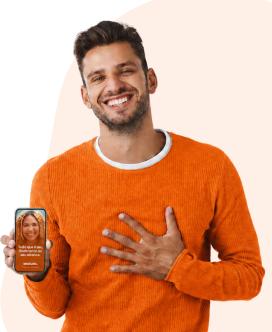
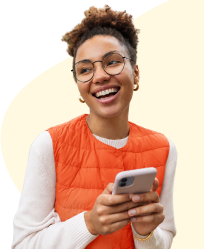
FGTS via Lótus+, ajuste no CLT e refinos de layout nas landings
FGTS: reativa o produto no dashboard, adiciona bloco de parceria com a
Lótus+ na landing e substitui o fluxo interno de contratação por
redirecionamento externo, com tela intermediária de transição (mesmo
padrão do redirecionamento de provedores do CLT) e botão de fallback
caso o link não abra automaticamente. Jornada interna do FGTS
preservada nas rotas, apenas não é mais o destino padrão da landing.

CLT: label de consentimento na revisão da proposta ajustada para texto
simples, sem link.

Landings de produto: CTA fixo no rodapé sem fundo sólido, para efeito
de flutuação.

diff --git a/projetos/taya-app/src/App.tsx b/projetos/taya-app/src/App.tsx
@@ -109,6 +109,7 @@ import SeguroVidaLandingPage from "@/pages/seguro-vida/SeguroVidaLandingPage";
 import FGTSLandingPage from "@/pages/fgts/LandingPage";
 import FGTSCopilotoPage from "@/pages/fgts/CopilotoPage";
 import FGTSLoadingPage from "@/pages/fgts/LoadingPage";
+import FGTSRedirecionandoPage from "@/pages/fgts/RedirecionandoPage";
 import FGTSSemSaldoPage from "@/pages/fgts/SemSaldoPage";
 import FGTSSimuladorPage from "@/pages/fgts/SimuladorPage";
 import FGTSRevisaoPage from "@/pages/fgts/RevisaoPage";
@@ -1722,7 +1723,9 @@ function AssistenciasPage() {
           <FaqAcordeon items={faqItems} />
         </div>
 
-        <FakeDoorCTA registrado={assistencias} onRegister={handleInteresse} label="Conhecer planos" />
+        <div className="sticky bottom-20 z-40 pb-3 md:bottom-0">
+          <FakeDoorCTA registrado={assistencias} onRegister={handleInteresse} label="Conhecer planos" />
+        </div>
       </div>
     </SubPageLayout>
   );
@@ -1824,7 +1827,9 @@ function EnergiaPage() {
           <FaqAcordeon items={faqItems} />
         </div>
 
-        <FakeDoorCTA registrado={energia} onRegister={handleInteresse} label="Simular economia" />
+        <div className="sticky bottom-20 z-40 pb-3 md:bottom-0">
+          <FakeDoorCTA registrado={energia} onRegister={handleInteresse} label="Simular economia" />
+        </div>
       </div>
     </SubPageLayout>
   );
@@ -3312,11 +3317,10 @@ function App() {
   const fgtsPath = "/fgts";
 
   // Título "Para você agora" só aparece quando pelo menos 1 dos cards abaixo está ativo
-  // FGTS OCULTO TEMPORARIAMENTE — produto em pausa. Remover o false && para reativar.
   const temCardParaVoceAgora =
     mostrarCltConsultaLiberada ||
-    (false && fgtsStatus === "autorizado") ||
-    (false && fgtsStatus === "contrato") ||
+    fgtsStatus === "autorizado" ||
+    fgtsStatus === "contrato" ||
     cpOfertaPronta ||
     cpVideoDisponivel ||
     cpStatus === "assinatura_pendente" ||
@@ -3414,9 +3418,8 @@ function App() {
                 )}
 
                 {/* DESIGN ONLY — card FGTS no "Para você agora" quando fgts=autorizado ou fgts=contrato
-                    TODO: controlar por estado real da API BMP
-                    FGTS OCULTO TEMPORARIAMENTE — produto em pausa. Remover o false && para reativar. */}
-                {false && fgtsStatus === "autorizado" && (
+                    TODO: controlar por estado real da API BMP */}
+                {fgtsStatus === "autorizado" && (
                   <button
                     type="button"
                     onClick={() => navigate("/fgts/simular")}
@@ -3437,8 +3440,7 @@ function App() {
                     </div>
                   </button>
                 )}
-                {/* FGTS OCULTO TEMPORARIAMENTE — produto em pausa. Remover o false && para reativar. */}
-                {false && fgtsStatus === "contrato" && (
+                {fgtsStatus === "contrato" && (
                   <button
                     type="button"
                     onClick={() => navigate("/contratos/fgts-001")}
@@ -3586,7 +3588,6 @@ function App() {
         <div className="mt-0 space-y-3 p-4 pb-28 md:px-8 md:pb-8">
           <div className="md:mx-auto md:max-w-[860px] md:space-y-3">
             <motion.div variants={cardsContainerVariants} initial="initial" animate="animate" className="space-y-3 md:grid md:grid-cols-2 md:gap-4 md:space-y-0">
-              {/* FGTS OCULTO TEMPORARIAMENTE — produto em pausa. Remover o "|| false" do .filter abaixo para reativar. */}
               {([
                 "clt",
                 "fgts",
@@ -3595,7 +3596,6 @@ function App() {
                 "energia",
                 "seguro",
               ] as const)
-                .filter((interest) => interest !== "fgts" || false)
                 .map((interest) => {
                 // DESIGN ONLY — estado do card Crédito Pessoal varia por ?cp=
                 const cpHighlight =
@@ -3953,6 +3953,7 @@ function App() {
             <Route path="/fgts" element={getStoredUser() ? <FGTSLandingPage /> : <Navigate to="/boas-vindas" replace />} />
             <Route path="/fgts/copiloto" element={getStoredUser() ? <FGTSCopilotoPage /> : <Navigate to="/boas-vindas" replace />} />
             <Route path="/fgts/loading" element={getStoredUser() ? <FGTSLoadingPage /> : <Navigate to="/boas-vindas" replace />} />
+            <Route path="/fgts/redirecionando" element={getStoredUser() ? <FGTSRedirecionandoPage /> : <Navigate to="/boas-vindas" replace />} />
             <Route path="/fgts/sem-saldo" element={getStoredUser() ? <FGTSSemSaldoPage /> : <Navigate to="/boas-vindas" replace />} />
             <Route path="/fgts/saldo-disponivel" element={getStoredUser() ? <FGTSSaldoDisponivelPage /> : <Navigate to="/boas-vindas" replace />} />
             <Route path="/fgts/simular" element={getStoredUser() ? <FGTSSimuladorPage /> : <Navigate to="/boas-vindas" replace />} />

diff --git a/projetos/taya-app/src/pages/fgts/LandingPage.tsx b/projetos/taya-app/src/pages/fgts/LandingPage.tsx
@@ -7,7 +7,6 @@ import {
   CheckCircle,
   Lightning,
   Lock,
-  Spinner,
   Vault,
 } from "@phosphor-icons/react";
 import { Card, CardContent } from "@/components/ui/card";
@@ -46,12 +45,10 @@ const faq = FAQ["fgts"];
 
 export default function FGTSLandingPage() {
   const navigate = useNavigate();
-  const [isConsulting, setIsConsulting] = useState(false);
   const [faqOpen, setFaqOpen] = useState<number | null>(0);
 
   const handleConsult = () => {
-    setIsConsulting(true);
-    navigate("/fgts/copiloto");
+    navigate("/fgts/redirecionando");
   };
 
   return (
@@ -87,6 +84,25 @@ export default function FGTSLandingPage() {
             </h1>
             <p className="text-sm text-white/80">
               Sem burocracia. O dinheiro cai na sua conta em minutos.
+            </p>
+          </div>
+        </div>
+
+        {/* ── Bloco de parceria Pode Já × Lótus+ ── */}
+        <div className="rounded-2xl border border-border bg-white p-3">
+          <div className="flex flex-col items-center gap-3 text-center">
+            <img
+              src="/images/logo-lotus-mais.png"
+              alt="Lótus+"
+              className="h-10 object-contain"
+              onError={(e) => {
+                (e.target as HTMLImageElement).style.display = "none";
+              }}
+            />
+            <p className="text-xs font-medium text-muted-foreground">Parceiro oficial</p>
+            <p className="text-xs text-muted-foreground leading-relaxed w-full">
+              A Lótus+ é especialista em antecipação de FGTS, com mais de 10 anos de mercado e milhares de clientes
+              atendidos em todo o Brasil.
             </p>
           </div>
         </div>
@@ -164,28 +180,14 @@ export default function FGTSLandingPage() {
         </div>
 
         {/* CTA fixo no rodapé */}
-        <div className="sticky bottom-20 z-40 bg-background pb-6 pt-3 md:bottom-0">
+        <div className="sticky bottom-20 z-40 pb-3 md:bottom-0">
           <button
             type="button"
-            disabled={isConsulting}
             onClick={handleConsult}
-            className={`flex h-14 w-full items-center justify-center gap-2 rounded-full text-base font-semibold text-white transition-colors ${
-              isConsulting
-                ? "cursor-not-allowed bg-[#FD5F31] opacity-70"
-                : "bg-[#FD5F31] hover:bg-[#d04e08] active:scale-[0.98]"
-            }`}
+            className="flex h-14 w-full items-center justify-center gap-2 rounded-full bg-[#FD5F31] text-base font-semibold text-white transition-colors hover:bg-[#d04e08] active:scale-[0.98]"
           >
-            {isConsulting ? (
-              <>
-                <Spinner size={20} className="animate-spin" />
-                Abrindo copiloto...
-              </>
-            ) : (
-              <>
-                Quero antecipar meu FGTS
-                <ArrowRight size={16} className="ml-1" />
-              </>
-            )}
+            Quero antecipar meu FGTS
+            <ArrowRight size={16} className="ml-1" />
           </button>
         </div>
 

diff --git a/projetos/taya-app/src/pages/fgts/RedirecionandoPage.tsx b/projetos/taya-app/src/pages/fgts/RedirecionandoPage.tsx
@@ -1,0 +1,44 @@
+import { useEffect, useState } from "react";
+import { ArrowSquareOut } from "@phosphor-icons/react";
+import { motion } from "framer-motion";
+
+// Mesmo padrão visual de ConsignadoCLTRedirecionandoPage.tsx (redirecionamento a parceiro externo)
+// TODO: substituir pela URL real de auto contratação da Lótus+ quando disponível
+const LOTUS_AUTOCONTRATACAO_URL = "https://lotus.com.br/autocontratacao";
+
+export default function FGTSRedirecionandoPage() {
+  const [mostrarBotao, setMostrarBotao] = useState(false);
+
+  useEffect(() => {
+    const abrirTimer = window.setTimeout(() => {
+      window.open(LOTUS_AUTOCONTRATACAO_URL, "_blank");
+    }, 3000);
+    // Fallback — caso o navegador bloqueie o popup ou o redirecionamento automático falhe
+    const botaoTimer = window.setTimeout(() => setMostrarBotao(true), 10000);
+    return () => {
+      window.clearTimeout(abrirTimer);
+      window.clearTimeout(botaoTimer);
+    };
+  }, []);
+
+  return (
+    <main className="flex min-h-screen flex-col items-center justify-center bg-gradient-to-b from-[#FD5F31] to-[#FA9832] px-6 text-center text-white">
+      <motion.div animate={{ scale: [1, 1.1, 1] }} transition={{ duration: 1, repeat: Infinity }}>
+        <ArrowSquareOut size={48} />
+      </motion.div>
+      <h2 className="mt-6 text-2xl font-bold">Abrindo a Lótus+</h2>
+      <p className="mt-2 text-sm text-white/80">
+        Você será direcionado para a contratação no nosso parceiro.
+      </p>
+      {mostrarBotao && (
+        <button
+          type="button"
+          onClick={() => window.open(LOTUS_AUTOCONTRATACAO_URL, "_blank")}
+          className="mt-6 flex h-12 items-center justify-center rounded-full bg-white px-6 text-sm font-semibold text-[#FD5F31]"
+        >
+          Abrir contratação na Lótus+
+        </button>
+      )}
+    </main>
+  );
+}

diff --git a/projetos/taya-app/src/pages/consignado-clt/RevisaoPage.tsx b/projetos/taya-app/src/pages/consignado-clt/RevisaoPage.tsx
@@ -179,15 +179,8 @@ export default function ConsignadoCLTRevisaoPage() {
             {termoAceito && <Check size={12} className="text-white" weight="bold" />}
           </div>
           <span className="text-sm leading-relaxed text-foreground">
-            Ao continuar, concordo com os{" "}
-            <a
-              href="#"
-              className="text-[#FD5F31] underline underline-offset-2"
-              onClick={(e) => e.stopPropagation()}
-            >
-              Termos do Contrato
-            </a>{" "}
-            e autorizo o desconto das parcelas em folha de pagamento.
+            Ao continuar, concordo com os termos do contrato de consentimento realizado e autorizo o desconto das
+            parcelas em folha de pagamento.
           </span>
         </button>
 

diff --git a/projetos/taya-app/src/pages/credito-pessoal/CreditoPessoalLanding.tsx b/projetos/taya-app/src/pages/credito-pessoal/CreditoPessoalLanding.tsx
@@ -183,7 +183,7 @@ export default function CreditoPessoalLanding() {
         </div>
 
         {/* ── CTA fixo no rodapé ── */}
-        <div className="sticky bottom-20 z-40 bg-background pb-6 pt-3 md:bottom-0">
+        <div className="sticky bottom-20 z-40 pb-3 md:bottom-0">
           <button
             type="button"
             onClick={() => navigate("/credito-pessoal/dados")}

diff --git a/projetos/taya-app/src/pages/consignado-clt/LandingPage.tsx b/projetos/taya-app/src/pages/consignado-clt/LandingPage.tsx
@@ -176,7 +176,7 @@ export default function ConsignadoCLTLandingPage() {
         </div>
 
         {/* CTA fixo no rodapé */}
-        <div className="sticky bottom-20 z-40 bg-background pb-6 pt-3 md:bottom-0">
+        <div className="sticky bottom-20 z-40 pb-3 md:bottom-0">
           <button
             type="button"
             disabled={isConsulting}

diff --git a/projetos/taya-app/src/pages/seguro-vida/SeguroVidaLandingPage.tsx b/projetos/taya-app/src/pages/seguro-vida/SeguroVidaLandingPage.tsx
@@ -153,7 +153,7 @@ export default function SeguroVidaLandingPage() {
         </div>
 
         {/* CTA fixo no rodapé */}
-        <div className="sticky bottom-20 z-40 bg-background pb-6 pt-3 md:bottom-0">
+        <div className="sticky bottom-20 z-40 pb-3 md:bottom-0">
           {jaAvisado ? (
             <button
               type="button"
